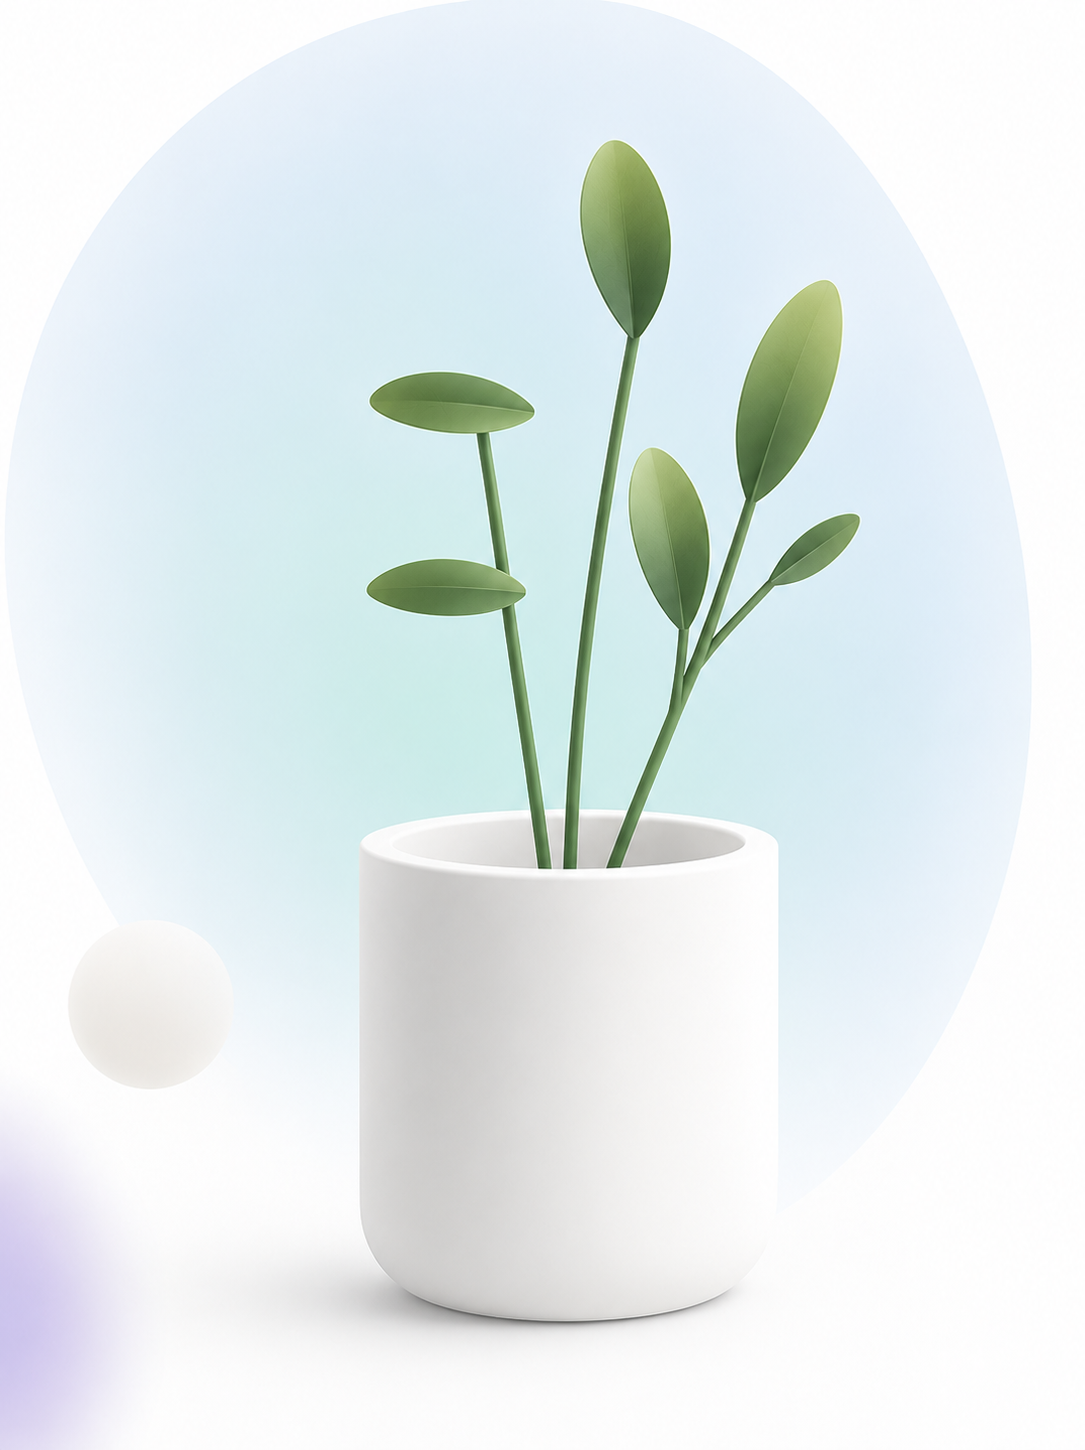
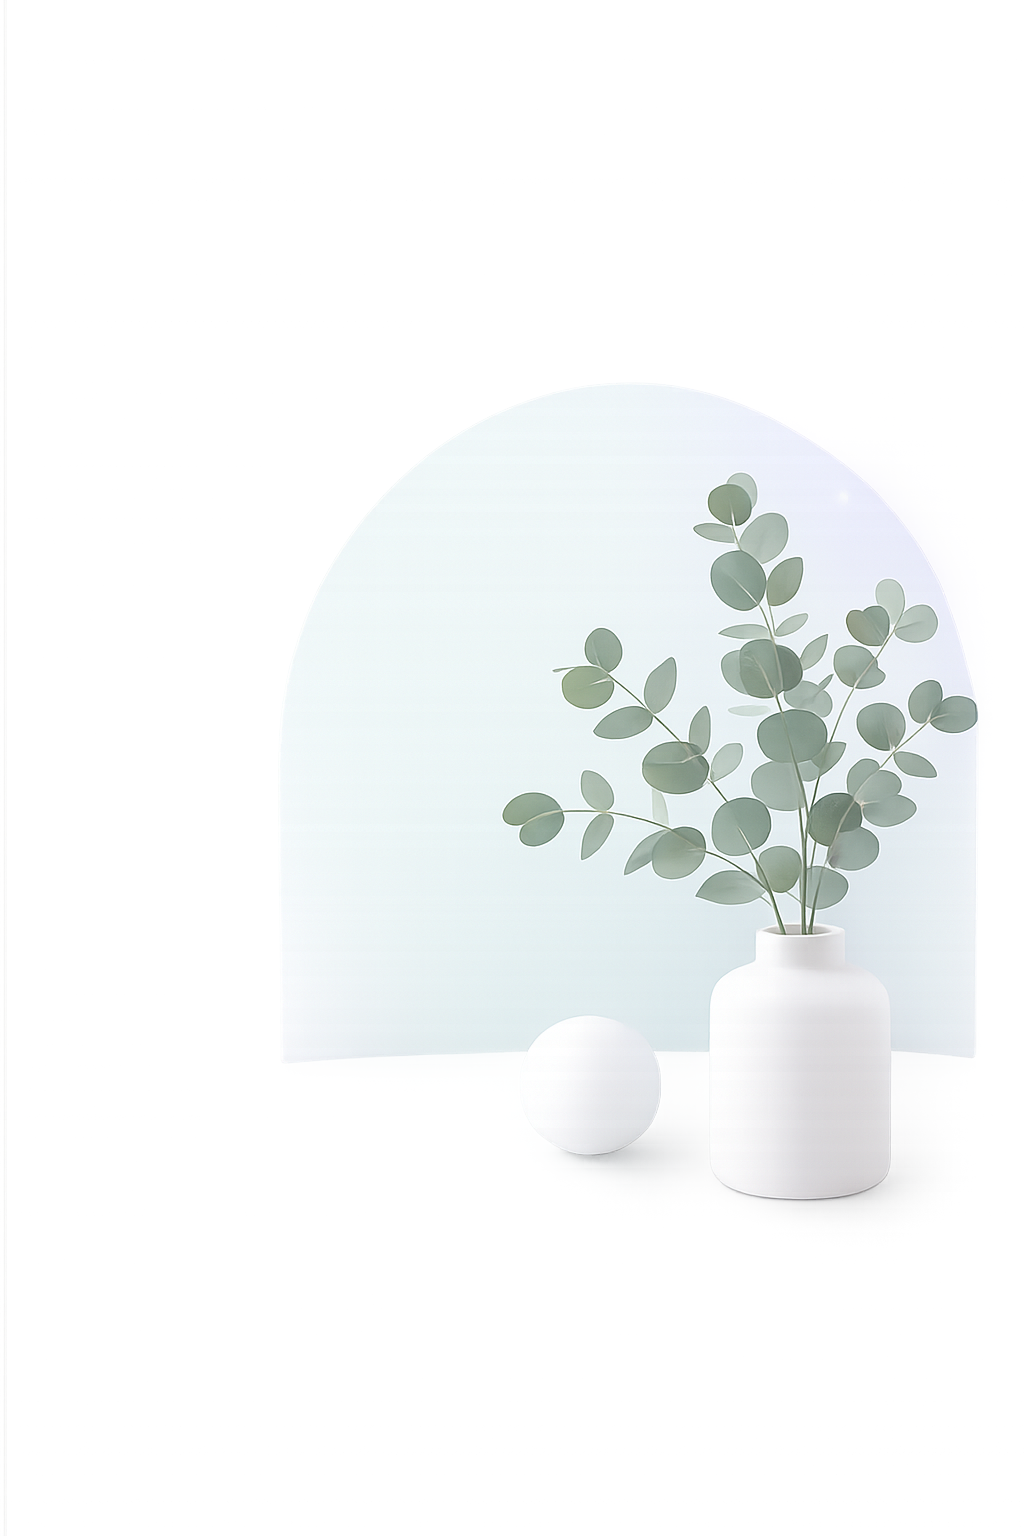
Refine hero illustration and final homepage layout

diff --git a/css/hero.css b/css/hero.css
@@ -66,24 +66,24 @@
 .hero-content h1 {
     max-width: 790px;
     margin: 0 auto;
-    padding: 0.06em 0 0.16em;
+    padding: 0.06em 0 0.12em;
     overflow: visible;
     font-family: "Fraunces", serif;
     color: #101a34;
     font-size: clamp(3.25rem, 5.8vw, 5.45rem);
     font-weight: 600;
-    line-height: 1.1;
+    line-height: 1.02;
     letter-spacing: -0.045em;
 }
 
 .hero-content h1 span {
     display: inline-block;
-    padding: 0.03em 0 0.1em;
+    padding: 0.03em 0 0.08em;
     background: linear-gradient(
-        100deg,
-        #4488ef 0%,
-        #6e73f3 48%,
-        #9b61e7 100%
+        90deg,
+        #5f8cf5 0%,
+        #7777f2 48%,
+        #9567e9 100%
     );
     background-clip: text;
     -webkit-background-clip: text;
@@ -101,6 +101,7 @@
 
 .search-form {
     position: relative;
+    z-index: 4;
     width: min(750px, 100%);
     min-height: 76px;
     margin: 0 auto;
@@ -187,6 +188,8 @@
 }
 
 .popular-searches {
+    position: relative;
+    z-index: 4;
     width: min(780px, 100%);
     margin: 17px auto 0;
     display: flex;
@@ -236,7 +239,7 @@
 
 .hero-decoration {
     position: absolute;
-    z-index: -1;
+    z-index: 0;
     pointer-events: none;
     filter: blur(2px);
 }
@@ -258,18 +261,7 @@
 }
 
 .hero-decoration-right {
-    right: -90px;
-    bottom: -20px;
-    width: 390px;
-    height: 430px;
-    border-radius: 47% 53% 38% 62% / 42% 42% 58% 58%;
-    background:
-        radial-gradient(
-            circle at 25% 35%,
-            rgba(173, 232, 236, 0.56),
-            rgba(190, 225, 255, 0.29) 52%,
-            transparent 76%
-        );
+    display: none;
 }
 
 .hero-dots {
@@ -291,17 +283,25 @@
 
 .hero-plant {
     position: absolute;
-    z-index: 2;
-    top: 22px;
-    right: 8px;
+    z-index: 3;
+    top: 45px;
+    right: -10px;
     display: block;
-    width: 315px;
+    width: 420px;
     height: auto;
     max-width: none;
     pointer-events: none;
     filter: drop-shadow(
-        0 18px 25px rgba(65, 78, 106, 0.08)
+        0 20px 24px rgba(54, 67, 96, 0.08)
     );
+}
+
+.hero-white-dot {
+    display: none;
+}
+
+.hero-purple-dot {
+    display: none;
 }
 
 .next-section {
@@ -334,9 +334,9 @@
     }
 
     .hero-plant {
-        right: -36px;
-        width: 290px;
-        opacity: 0.82;
+        top: 55px;
+        right: -35px;
+        width: 370px;
     }
 
     .hero-dots {
@@ -354,7 +354,10 @@
         width: 100%;
     }
 
-    .hero-plant {
+    .hero-decoration-right,
+    .hero-plant,
+    .hero-white-dot,
+    .hero-purple-dot {
         display: none;
     }
 
@@ -393,7 +396,7 @@
     .hero-content h1 {
         padding-bottom: 0.18em;
         font-size: clamp(2.65rem, 13vw, 3.55rem);
-        line-height: 1.12;
+        line-height: 1.08;
     }
 
     .hero-description {

diff --git a/index.html b/index.html
@@ -184,6 +184,8 @@
                         alt=""
                         aria-hidden="true"
                     >
+                    <span class="hero-white-dot" aria-hidden="true"></span>
+                    <span class="hero-purple-dot" aria-hidden="true"></span>
 
                     <div class="hero-content">
 
@@ -197,7 +199,7 @@
                             </svg>
 
                             <span data-i18n="hero.badge">
-                                Información clara. Opiniones reales. Decisiones mejores.
+                                Información clara. Opiniones reales. Mejores decisiones.
                             </span>
                         </div>
 
